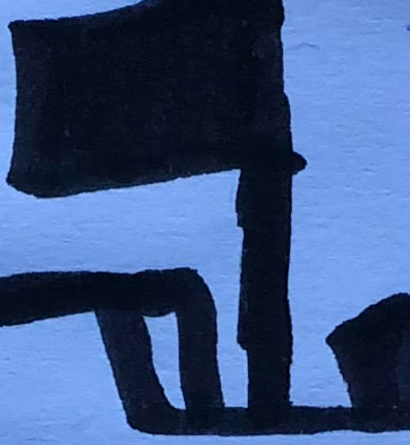
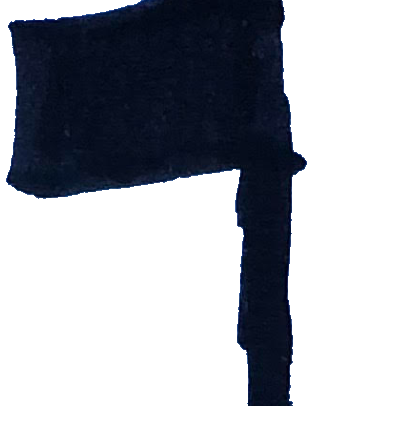
Add scans and WIP top platform

diff --git a/index.html b/index.html
@@ -96,6 +96,7 @@
             this.load.audio('thudSound', ['assets/thud.wav']);
 
 
+            this.load.image('invisible', 'assets/img/invisible.png');
             this.load.image('sky', 'assets/img/castle.png');
             this.load.image('ground', 'assets/img/ground.png');
             this.load.image('platform2', 'assets/img/platform2.png');
@@ -159,6 +160,9 @@
             // platform 1 top side
             platforms.create(620, 460, 'platform-1').setScale(0.4,0.3).setOrigin(0.5,5.9).refreshBody();
 
+            // platform 0 turret height
+            platforms.create(630, 80, 'platform-0').setScale(8,0.2).setOrigin(0,0).refreshBody();
+
 
             flagSound = this.sound.add('flagSound');
             thudSound = this.sound.add('thudSound');
@@ -215,9 +219,9 @@
                 allowGravity: false
             });
 
-            this.testGroup.add(this.physics.add.sprite(550, 55, 'flag').setScale(0.2), true);
+            this.testGroup.add(this.physics.add.sprite(400, 90, 'flag').setScale(0.2).setDepth(0), true);
 
-            
+
             //generateAndAddPlatforms(platforms, 0);
 
             cursors = this.input.keyboard.addKeys(
@@ -327,6 +331,19 @@
             });
 
 
+            this.physics.add.overlap(player, this.testGroup, function(a,b,collisionInfo){
+                if (didCollectFlag){
+                    // do nothing
+                }else{
+                    flagSound.play();
+                    // in future remove the flag
+                }
+
+                didCollectFlag = true;
+            }, null, this);
+
+
+
             this.physics.add.collider(knight1, player);
             this.physics.add.collider(knight2, player);
             this.physics.add.collider(knight3, player);
@@ -340,19 +357,19 @@
             // 
             this.physics.add.collider(player, platforms);
             
-            this.physics.add.collider(player, this.testGroup, function(){
+            // this.physics.add.collider(player, this.testGroup, function(){
                 
 
-                if (didCollectFlag){
-                    // do nothing
-                }else{
-                    flagSound.play();
-                    // in future remove the flag
-                }
+            //     if (didCollectFlag){
+            //         // do nothing
+            //     }else{
+            //         flagSound.play();
+            //         // in future remove the flag
+            //     }
 
-                didCollectFlag = true;
+            //     didCollectFlag = true;
 
-            });
+            // });
 
             // this.physics.add.collider(stars, platforms);
             // this.physics.add.overlap(player, stars, collectStar, null, this);
